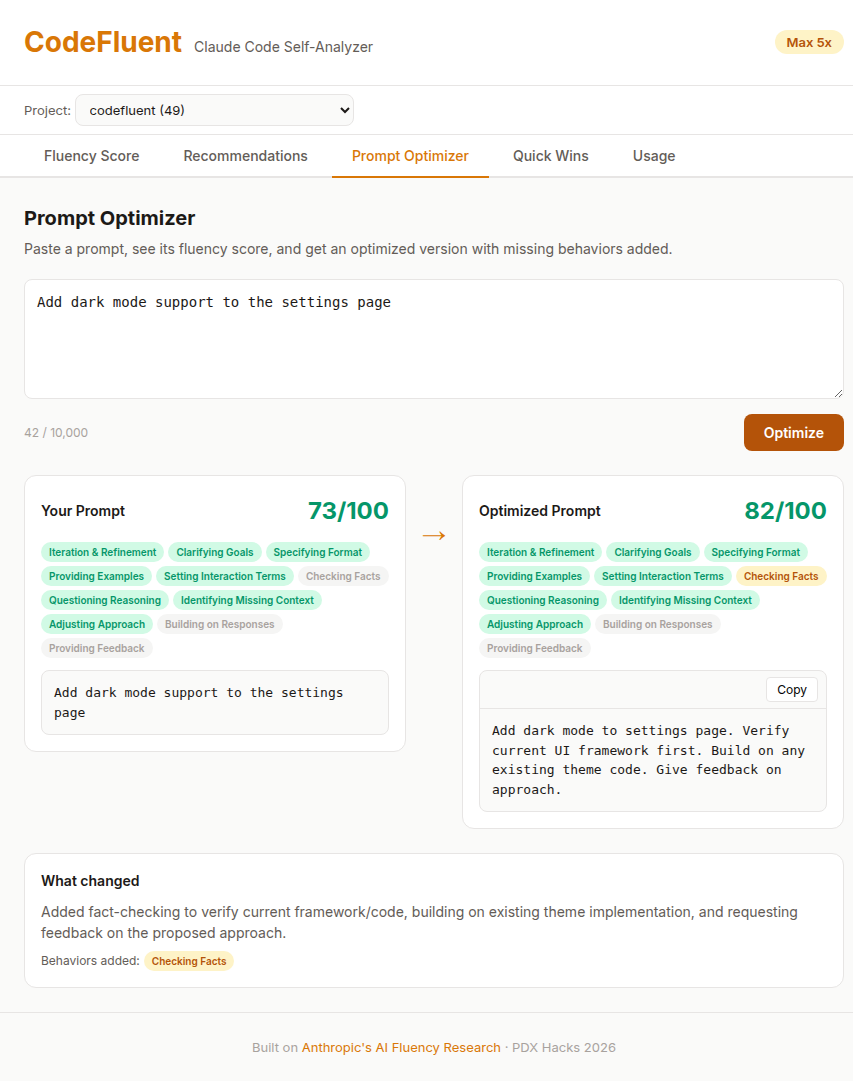
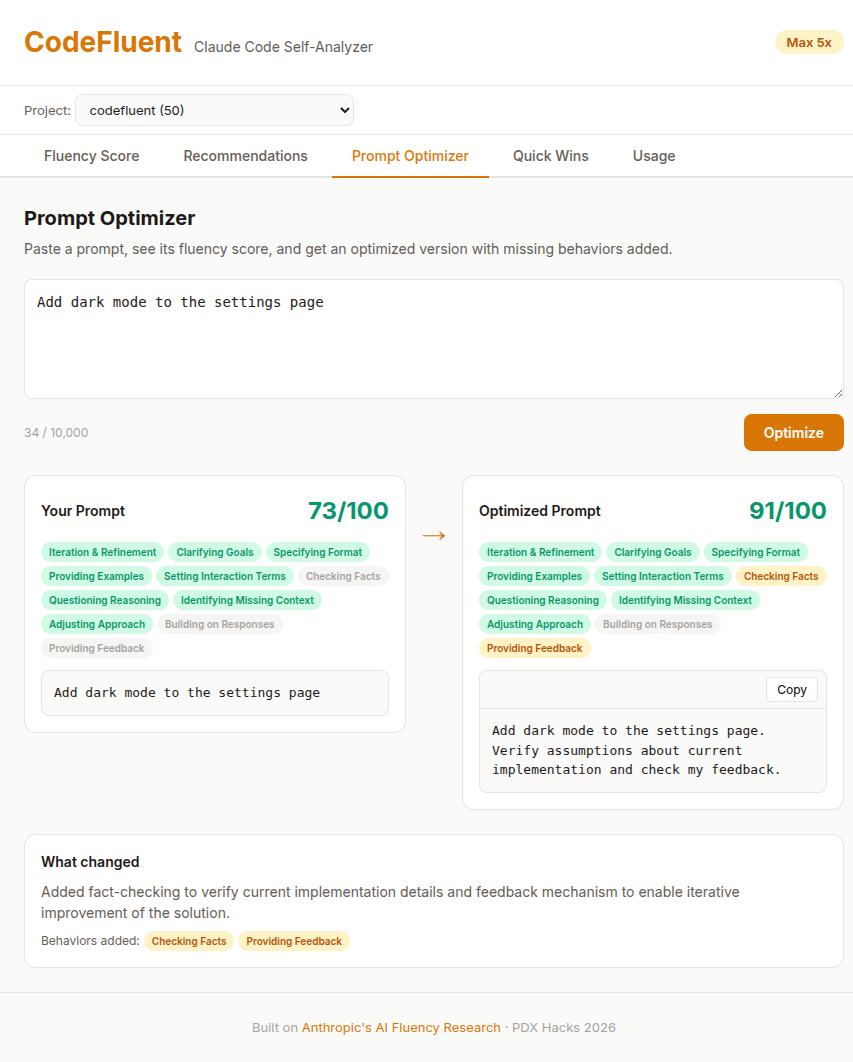
Update test counts and optimizer screenshot
Extension: 468 tests, webapp: 194 tests. Updated CLAUDE.md, README.md,
and CONTRIBUTING.md. New optimizer screenshot shows improved 73→91 result.

diff --git a/CLAUDE.md b/CLAUDE.md
@@ -105,7 +105,7 @@ npm run compile            # One-shot TypeScript compilation
 npm run watch              # Continuous compilation
 
 # Test
-npm test                   # Jest (unit + integration, 465 tests)
+npm test                   # Jest (unit + integration, 468 tests)
 
 # Package and install
 npx @vscode/vsce package --allow-missing-repository
@@ -189,7 +189,7 @@ The webapp uses a project dropdown (populated from session data) to scope featur
 - **Commit to feature/fix branches freely** — push often, squash or merge to main via PR.
 
 ### CI Workflows
-- **`ci.yml`** — Runs on every PR: `npm test` (465 tests) in `vscode-extension/`
+- **`ci.yml`** — Runs on every PR: `npm test` (468 tests) in `vscode-extension/`, `pytest` (194 tests) in `webapp/`
 - **`security-review.yml`** — Runs on every PR: grep-based checks for security anti-patterns (inline onclick, string interpolation in shell commands, missing escapeHtml)
 - **`claude-review.yml`** — AI code review via `claude-code-action@v1`. Triggered by `needs-review` label on PR (not on every push, to control API costs). Also responds to `@claude` mentions in PR comments.
 - **`release.yml`** — Release workflow for publishing
@@ -197,7 +197,7 @@ The webapp uses a project dropdown (populated from session data) to scope featur
 ## Production Standards
 - **All new features must have tests.** No merging without test coverage for the change.
 - **Security:** All user-controlled strings rendered in HTML must pass through `escapeHtml()`. All shell commands must use `execFileSync` with argument arrays, never string interpolation. Error messages must pass through `_sanitize_error()` / `sanitizeError()` to redact API keys. XSS and injection tests exist and must stay green.
-- **No regressions:** `npm test` must pass (currently 466 tests) before any commit to main.
+- **No regressions:** `npm test` must pass (currently 468 tests) before any commit to main.
 - **Feature parity:** Both the VS Code extension and the webapp are production deliverables. New scoring/analytics features should be implemented in both. Security fixes (XSS, injection) apply to both `media/app.js` and `webapp/static/app.js`.
 - **E2E testing:** Every PR test plan must include manual Playwright MCP smoke testing of the webapp before merging. See the E2E Smoke Test Checklist below.
 
@@ -401,7 +401,7 @@ npm test                   # Runs all 466 Jest tests (12 suites)
 # test/__mocks__/vscode.ts                     — VS Code API mock for Jest
 
 cd ../webapp
-uv run pytest tests/ -v    # Runs all webapp tests (106 tests, 4 suites)
+uv run pytest tests/ -v    # Runs all webapp tests (194 tests, 5 suites)
 
 # Test structure:
 # tests/test_api.py        — health endpoint, sessions, scores, scoring, optimizer, quickwins, usage

diff --git a/README.md b/README.md
@@ -194,7 +194,7 @@ Everything runs locally. No data leaves your machine except the API calls to Ant
 | Input validation | Pydantic constraints, length limits, path checks | Oversized payloads, path traversal |
 | Rate limiting | 10 req/min sliding window (webapp) | API abuse |
 | CORS | Localhost-only default (webapp) | Unauthorized cross-origin access |
-| Automated testing | 465 tests including security-focused suites | Regressions |
+| Automated testing | 662 tests including security-focused suites | Regressions |
 | CI security review | Claude security review on PRs | New vulnerabilities |
 
 All user-controlled strings are escaped before rendering in HTML. Shell commands use argument arrays (`execFileSync`) instead of string interpolation. The webapp validates all inputs with Pydantic models and enforces rate limits. Security-focused test suites verify XSS and injection protections.
@@ -287,7 +287,7 @@ npm run watch          # Continuous TypeScript compilation
 
 Four GitHub Actions workflows run automatically:
 
-- **CI** (`ci.yml`) — Runs on PRs + pushes to main. Compiles TypeScript, runs all 465 tests. Must pass to merge.
+- **CI** (`ci.yml`) — Runs on PRs + pushes to main. Compiles TypeScript, runs all 468 extension tests + 194 webapp tests. Must pass to merge.
 - **Claude Code Review** (`claude-review.yml`) — AI-powered PR review on all PRs, responds to `@claude` mentions.
 - **Security Review** (`security-review.yml`) — Claude-based security scan on PRs, checks for XSS/injection vectors.
 - **Release** (`release.yml`) — Triggered by version tags (`v*`). Builds VSIX and creates GitHub Release.
@@ -295,7 +295,7 @@ Four GitHub Actions workflows run automatically:
 ### Testing
 
 ```bash
-npm test               # Run all Jest tests (465 tests across 12 suites)
+npm test               # Run all Jest tests (468 tests across 12 suites)
 ```
 
 ### Packaging

diff --git a/CONTRIBUTING.md b/CONTRIBUTING.md
@@ -33,7 +33,7 @@ For the web app, see [`webapp/README.md`](webapp/README.md).
 
 ```bash
 cd vscode-extension
-npm test                        # Run all 313 tests across 10 suites
+npm test                        # Run all 468 tests across 12 suites
 npx jest --coverage             # Run with coverage report
 npx jest test/unit/scoring      # Run a specific test file
 ```
